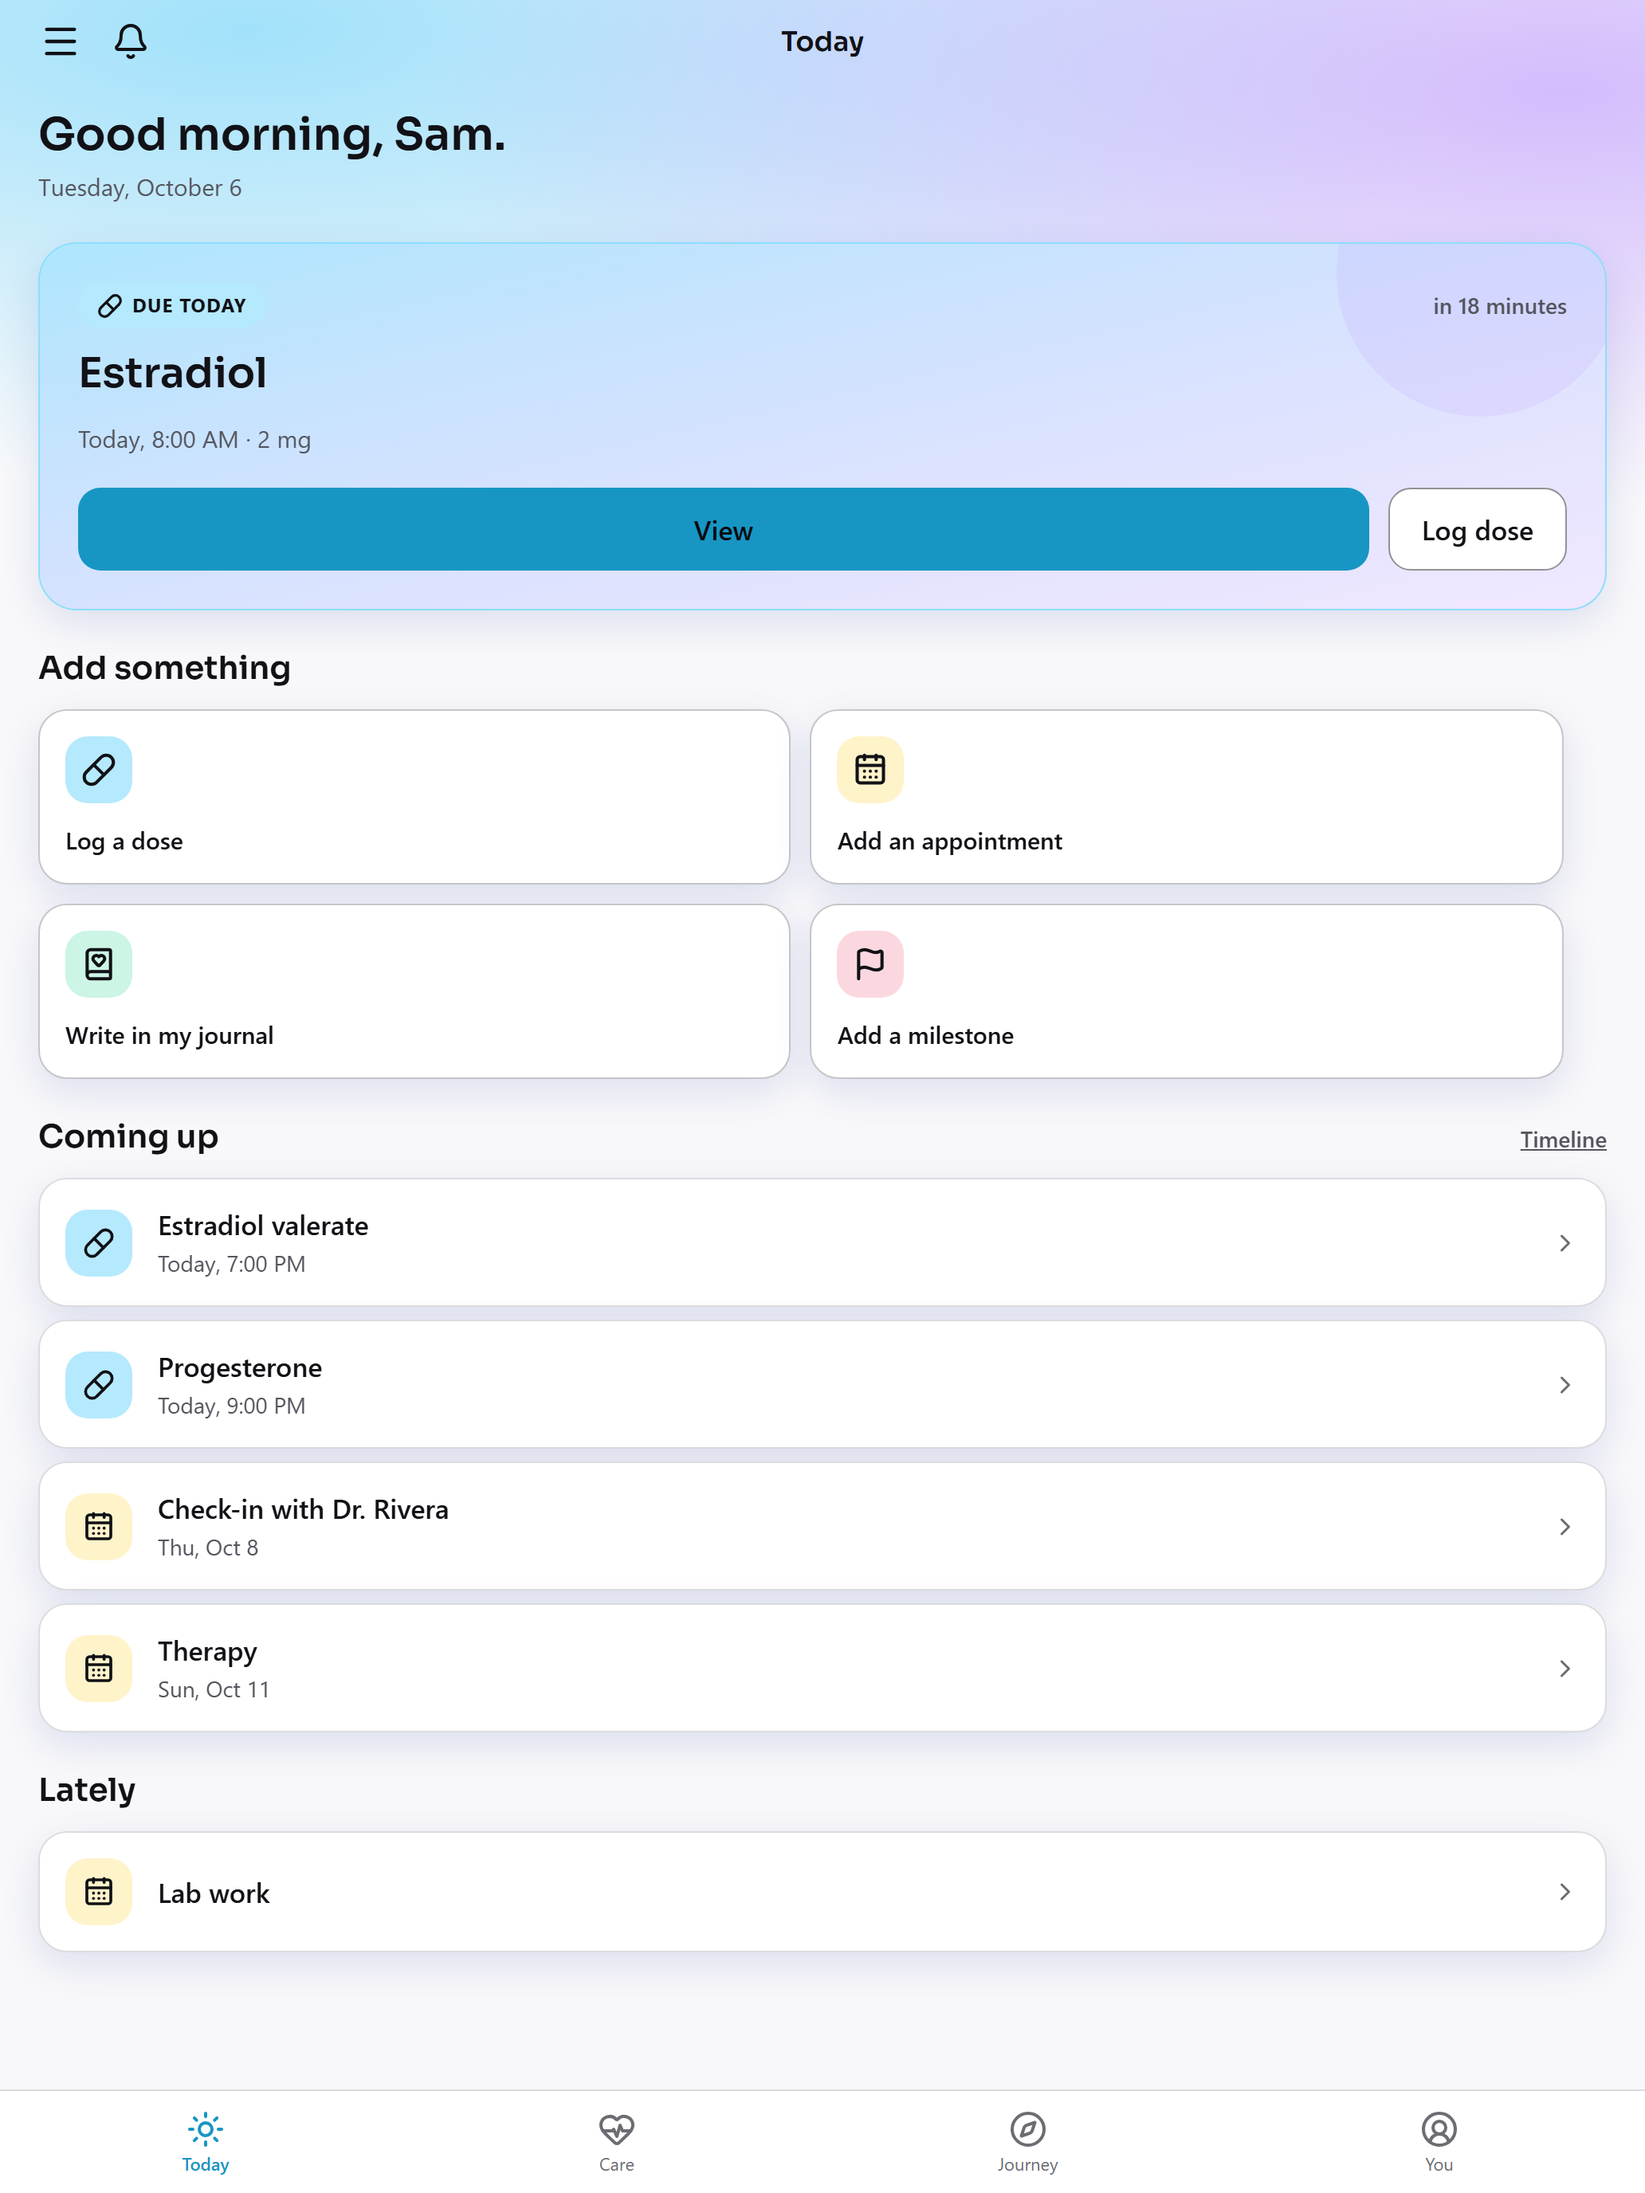
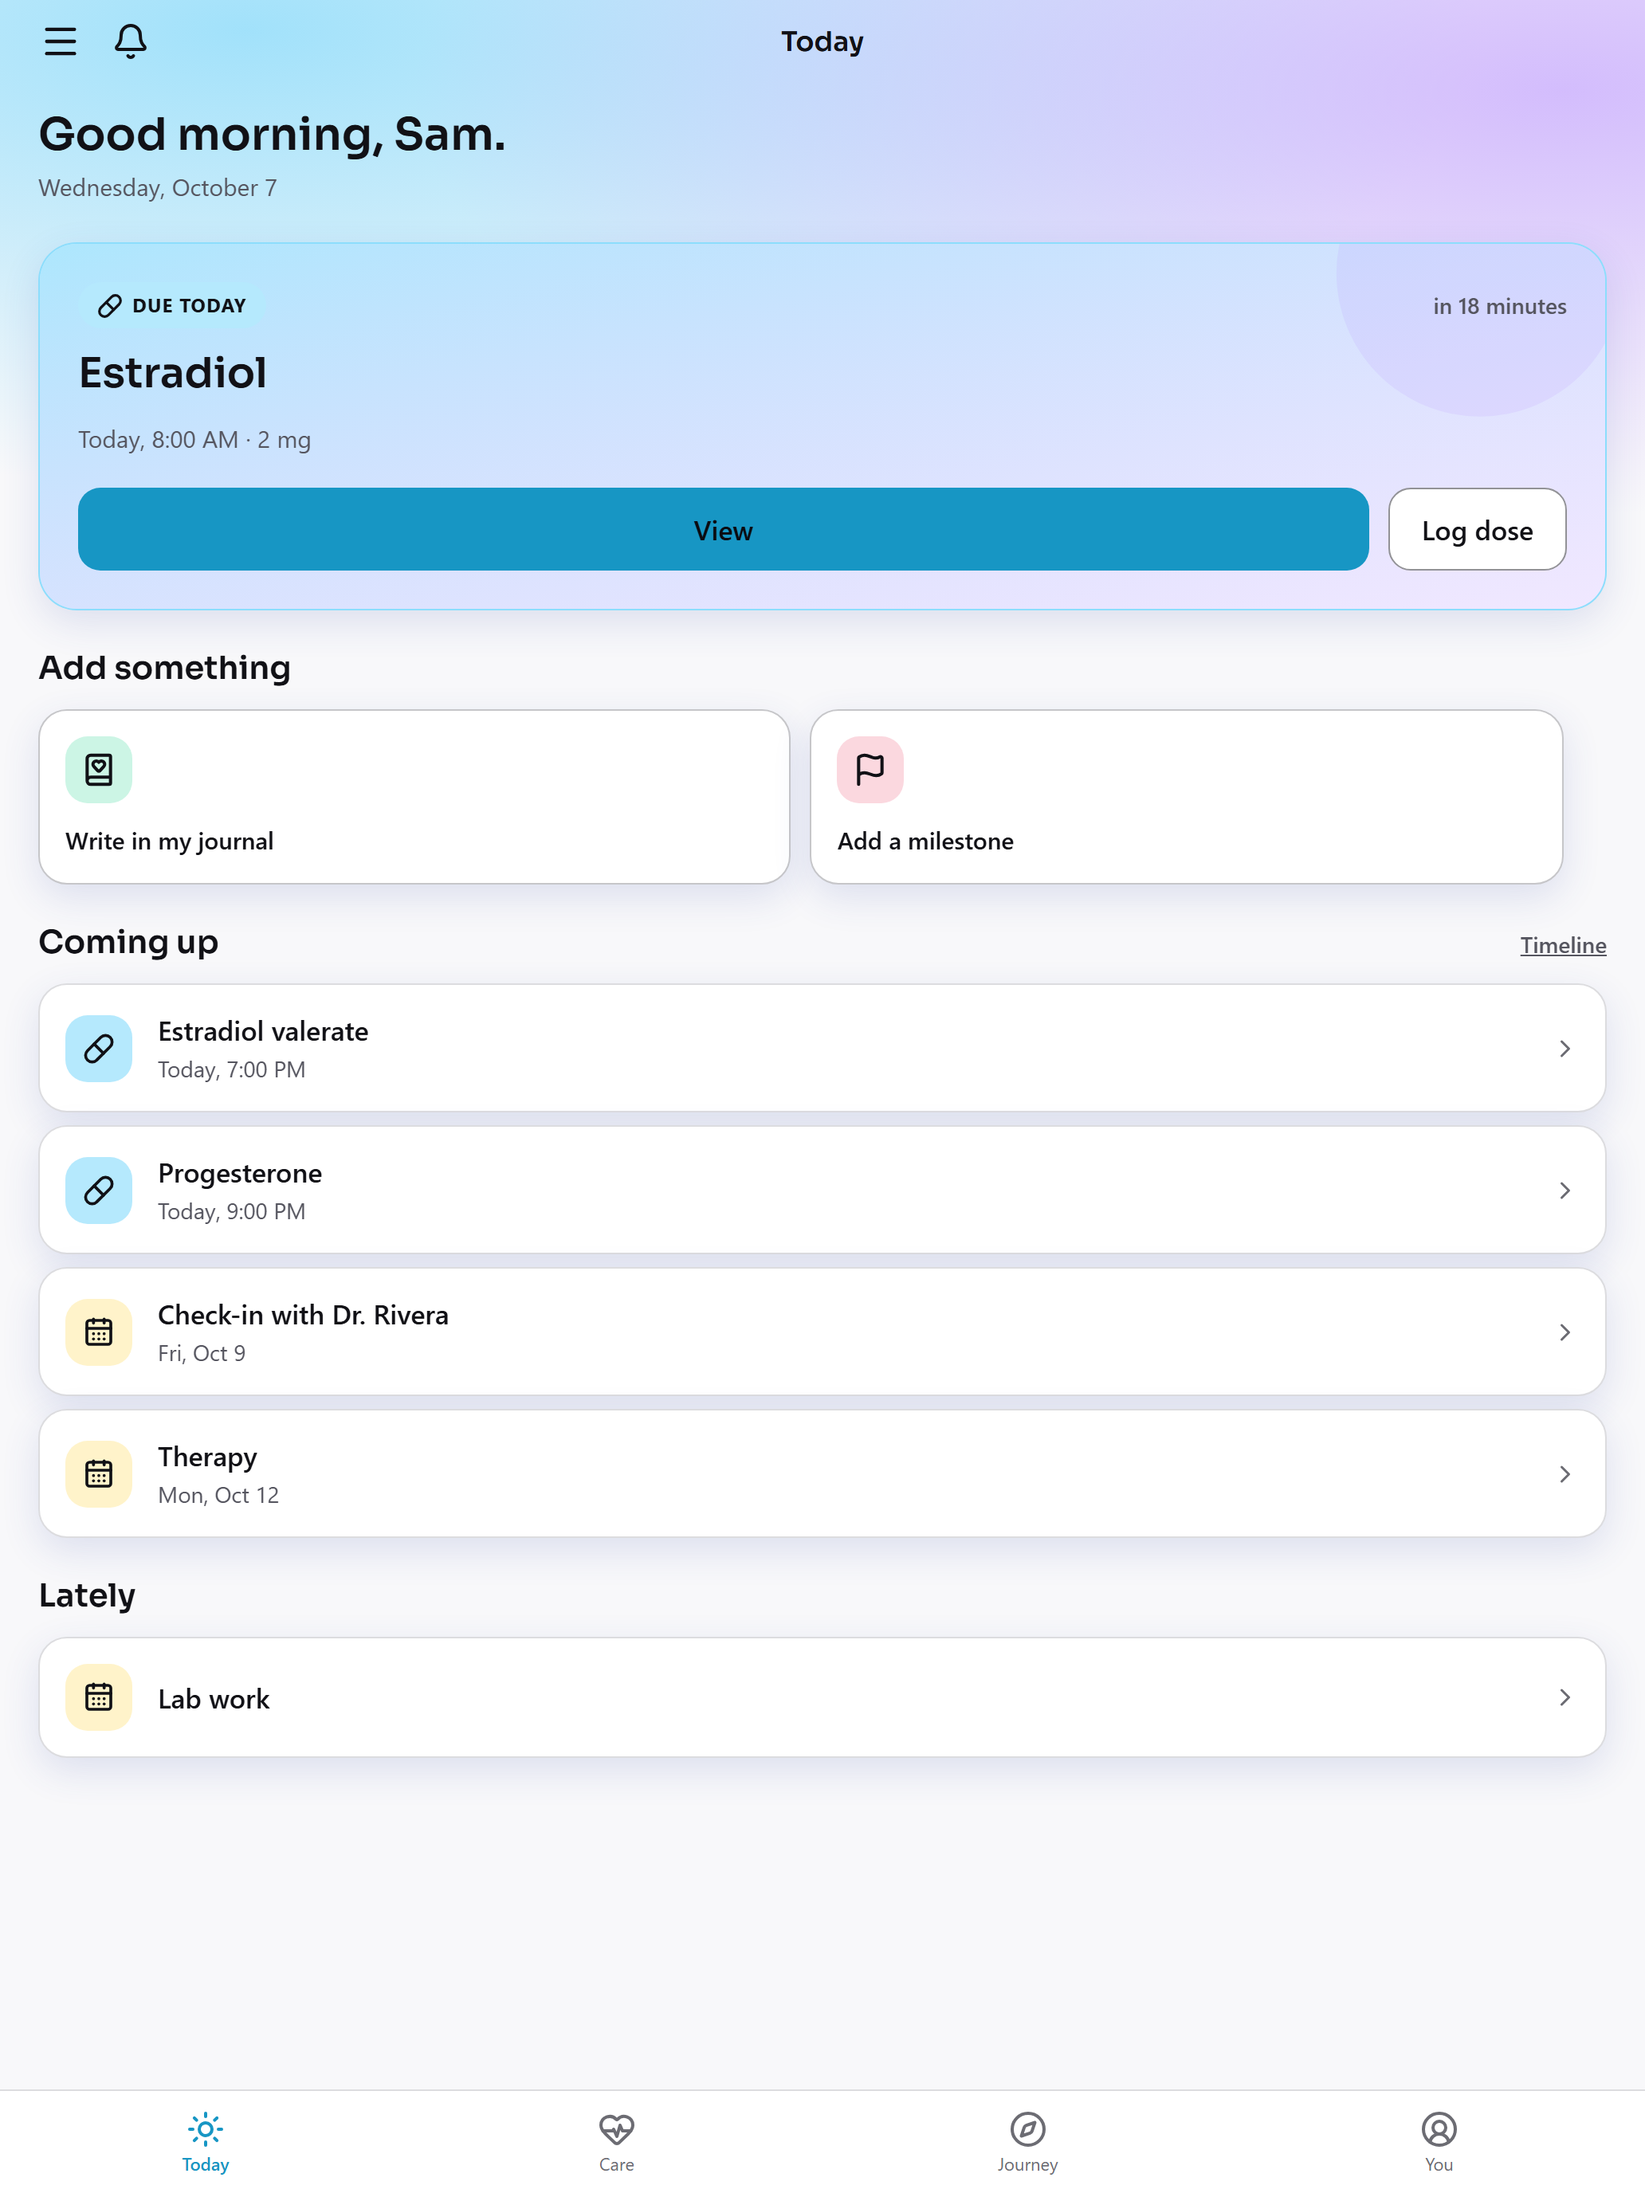
App Store screenshots and artwork retaken: Today's two tiles, Care's supplies

diff --git a/docs/app-store/README.md b/docs/app-store/README.md
@@ -1,6 +1,6 @@
 # App Store screenshots
 
-`screenshots/` holds the images uploaded to App Store Connect for version 1.0 (2026-10-06):
+`screenshots/` holds the images uploaded to App Store Connect for version 1.0 (retaken 2026-10-07, after Today went down to two tiles):
 
 - `iphone-*.png`: 1206 × 2622, the "iPhone with Dynamic Island (medium display)" slot. Apple scales them for other iPhones.
 - `duo-*.png`: 1398 × 2034, the iPhone Duo slot (the unfolded screen; captured at 699 × 1017 points, 2x).
@@ -62,6 +62,8 @@ For iPad, use `W=1032 H=1376 DPR=2`. For iPhone Duo, use `W=699 H=1017 DPR=2`. T
 
 - Run the server with `--no-dev`. In dev mode Expo can draw a ⚡ tools button in the corner, and it ends up in the shot.
 - After the server starts, the first page or two may come out blank while the bundle builds. Retake them.
+- With the default 9 s wait, many shots came out blank (the dark background only). `WAIT=15000` fixes that. A blank shot is easy to spot by its size: under 20 KB.
+- Give `SHOTS` a Windows path (`cygpath -w`). With `MSYS_NO_PATHCONV=1`, a Git Bash path like `/c/Users/...` ends up in `C:\c\Users\...`.
 
 - Apple accepts PNG without transparency. These are RGB.
 - On the version page, the upload control is under "App Previews and Screenshots". Choose a device tab first.
